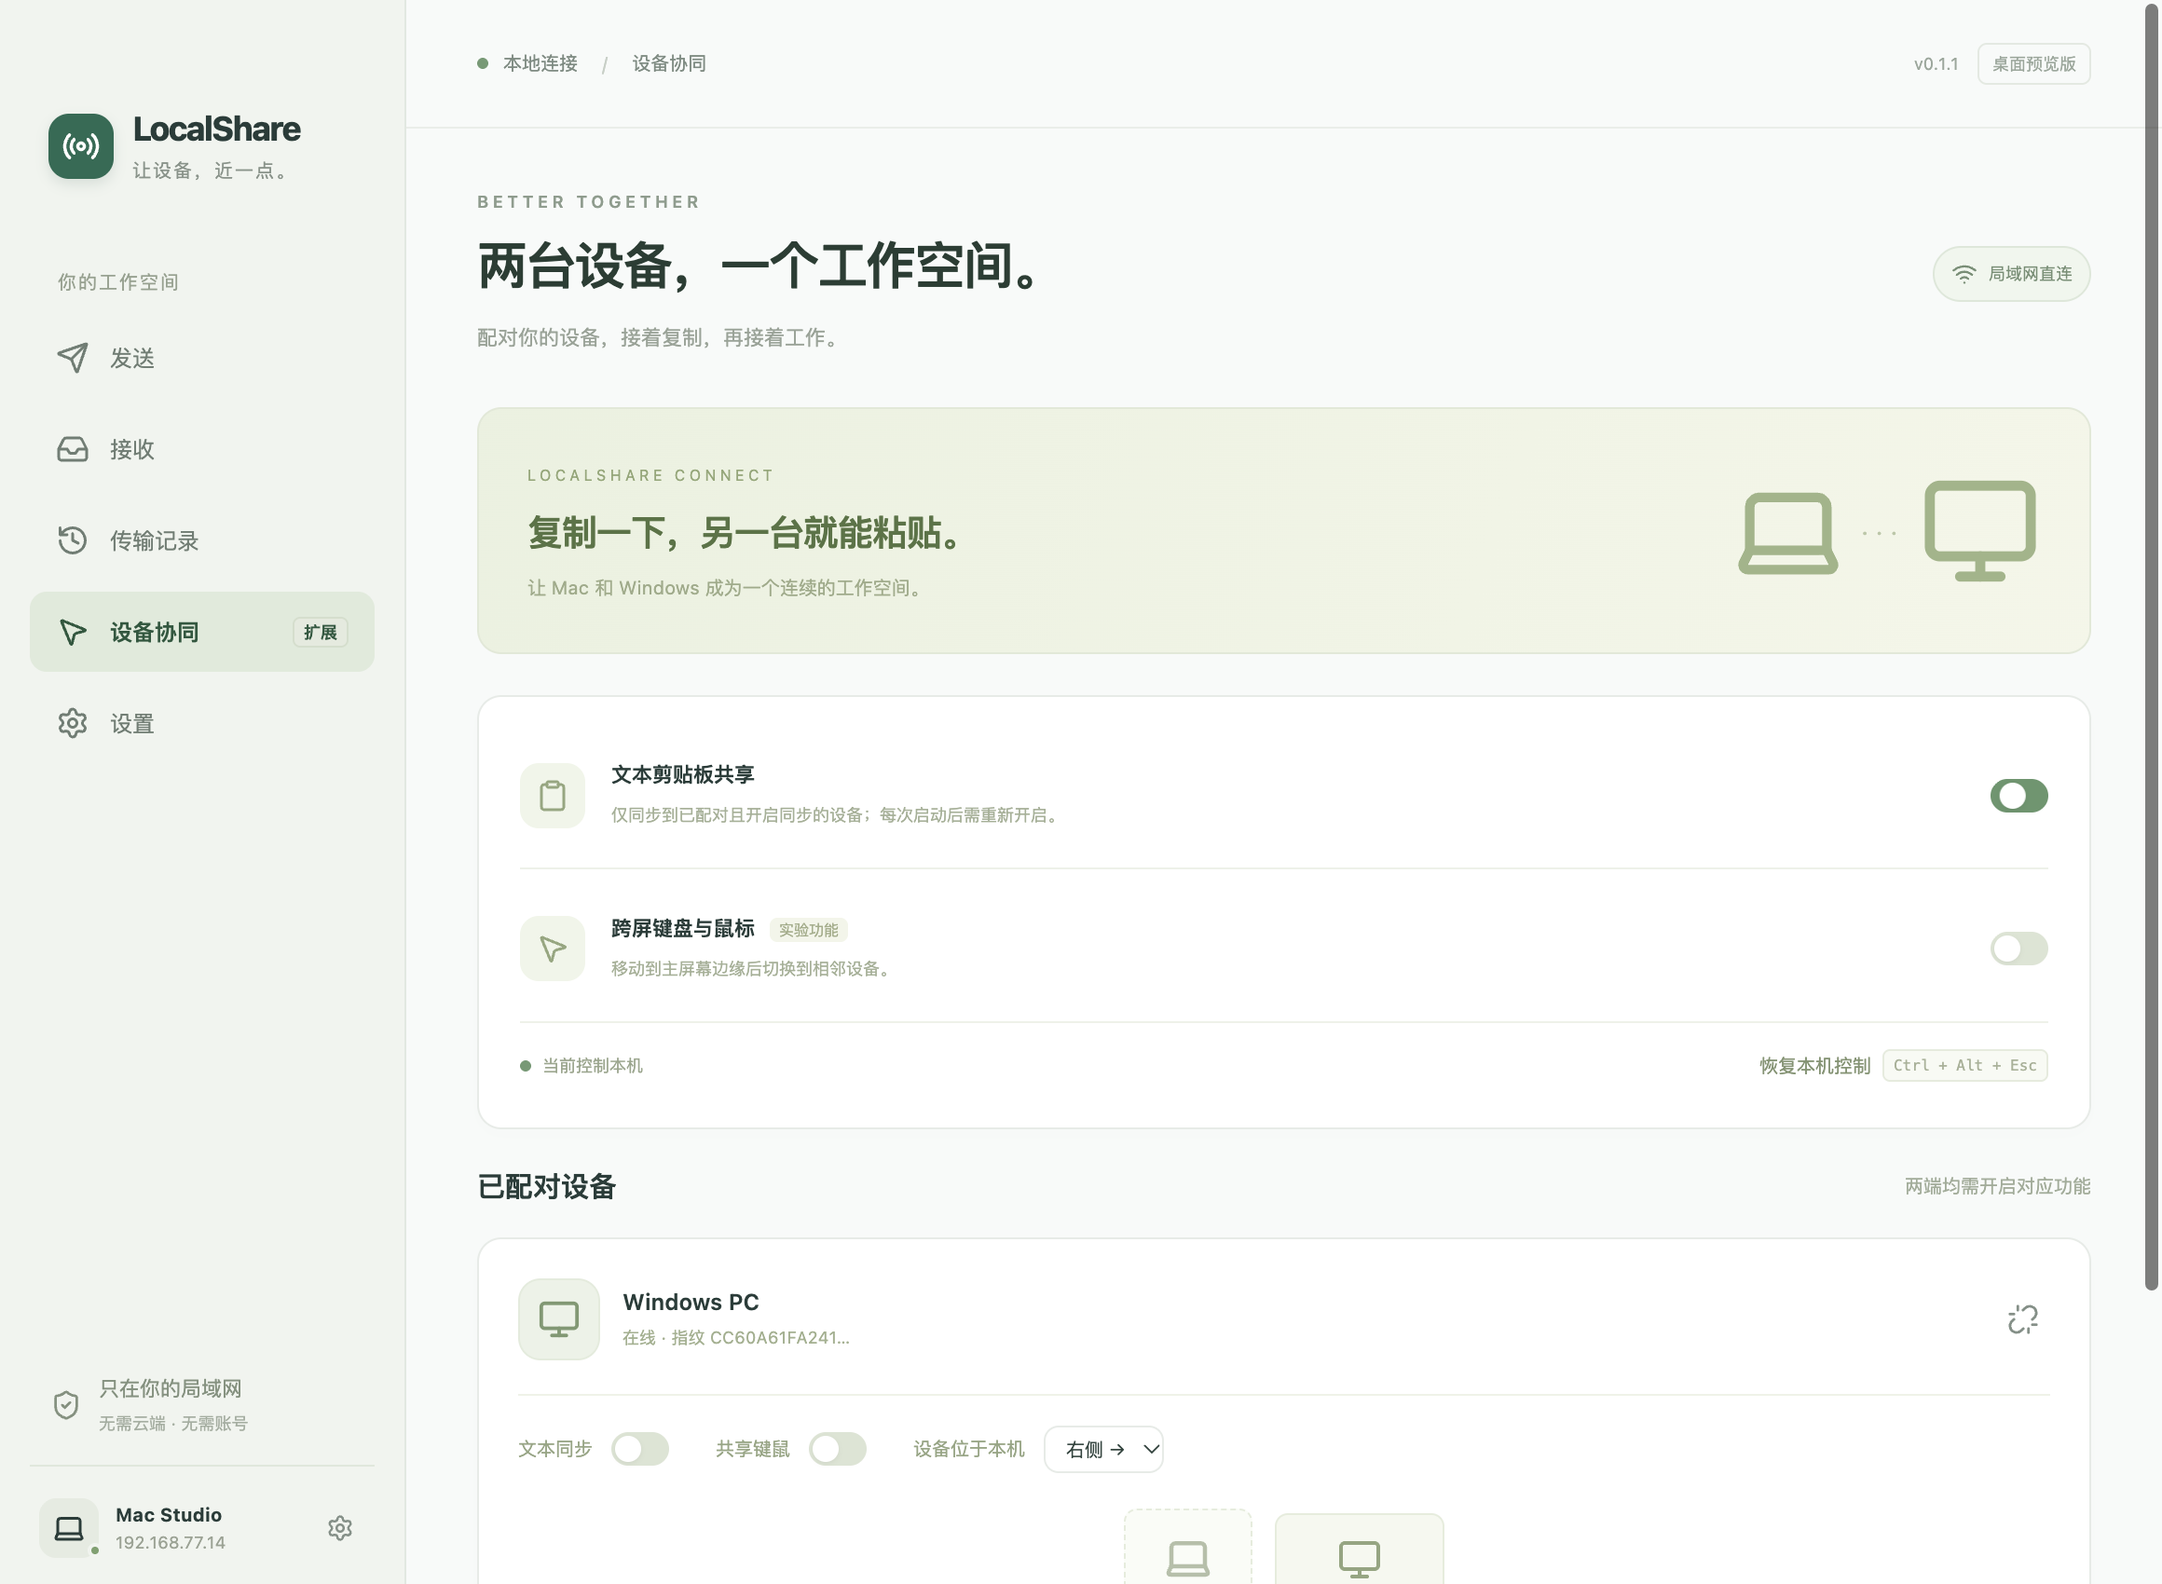
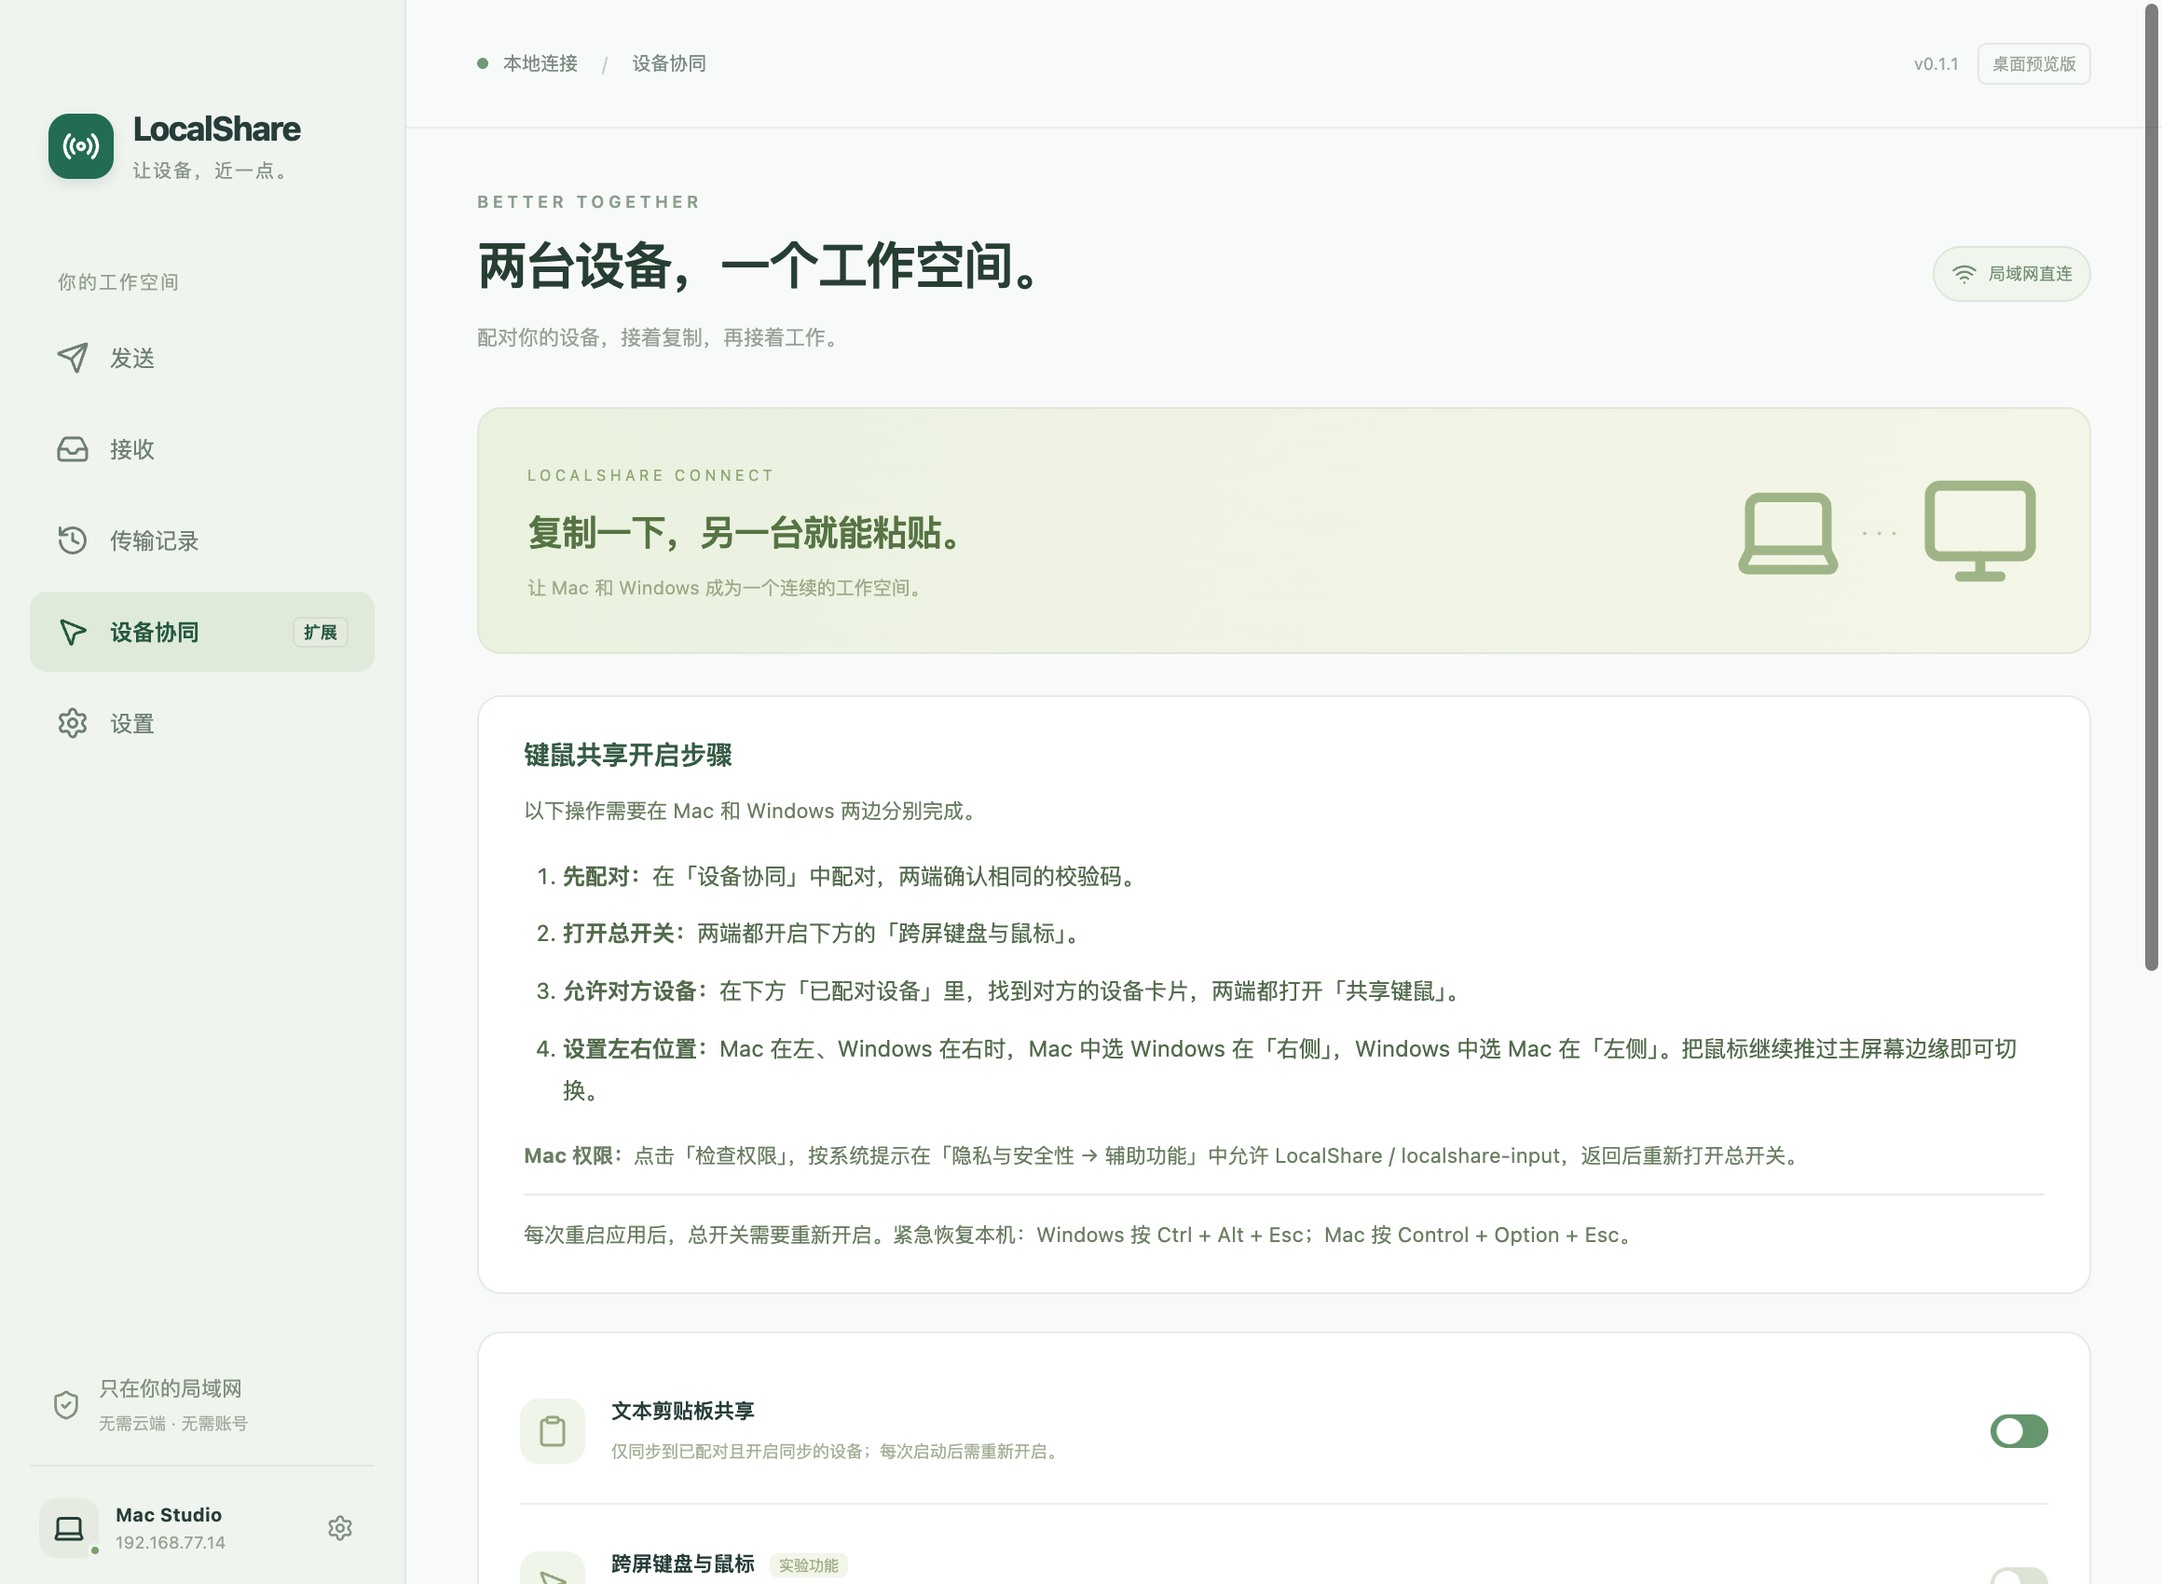
fix: explain both-device input sharing setup and actionable errors

diff --git a/tests/control.case.ts b/tests/control.case.ts
@@ -10,6 +10,57 @@ const waitFor = async (fn: () => boolean) => {
     await new Promise((r) => setTimeout(r, 20));
   }
 };
+test("remote control setup errors name the receiving device and the missing switch without raw JSON", async () => {
+  const a = await makePeer("Mac 测试"),
+    b = await makePeer("Windows 测试");
+  const ea = new Extensions(a.service),
+    eb = new Extensions(b.service);
+  const ca = new Control(ea),
+    cb = new Control(eb);
+  try {
+    await ea.start();
+    await eb.start();
+    const device = await a.service.register("127.0.0.1", b.service.info.port);
+    ea.on("pairing", (p) => ea.respondPair(p.id, true));
+    eb.on("pairing", (p) => eb.respondPair(p.id, true));
+    await ea.pair(device.fingerprint);
+    await ea.setSettings(false, true);
+    await ea.setPeer(device.fingerprint, { control: true });
+    await assert.rejects(
+      ca.start(device.fingerprint, "right", 0.5),
+      (error) => {
+        assert.ok(error instanceof Error);
+        assert.match(error.message, /Windows 测试/);
+        assert.match(error.message, /总开关/);
+        assert.equal(error.message.startsWith("{"), false);
+        return true;
+      },
+    );
+    assert.equal(ca.mode, "local");
+    await eb.setSettings(false, true);
+    await assert.rejects(
+      ca.start(device.fingerprint, "right", 0.5),
+      (error) => {
+        assert.ok(error instanceof Error);
+        assert.match(error.message, /Windows 测试/);
+        assert.match(error.message, /设备卡片/);
+        assert.match(error.message, /Mac 测试/);
+        return true;
+      },
+    );
+    assert.equal(ca.mode, "local");
+    await eb.setPeer(a.service.info.fingerprint, { control: true });
+    await ca.start(device.fingerprint, "right", 0.5);
+    assert.equal(ca.mode, "sending");
+  } finally {
+    await ca.dispose();
+    await cb.dispose();
+    await ea.stop();
+    await eb.stop();
+    await a.close();
+    await b.close();
+  }
+});
 test("control is opt-in, delivers ordered events and emergency stop releases both peers", async () => {
   const a = await makePeer("A"),
     b = await makePeer("B");

diff --git a/src/renderer/components/ControlSetupGuide.tsx b/src/renderer/components/ControlSetupGuide.tsx
@@ -1,0 +1,37 @@
+export function ControlSetupGuide() {
+  return (
+    <section
+      className="panel control-setup"
+      aria-labelledby="control-setup-title"
+    >
+      <h2 id="control-setup-title">键鼠共享开启步骤</h2>
+      <p>以下操作需要在 Mac 和 Windows 两边分别完成。</p>
+      <ol>
+        <li>
+          <strong>先配对：</strong>在「设备协同」中配对，两端确认相同的校验码。
+        </li>
+        <li>
+          <strong>打开总开关：</strong>两端都开启下方的「跨屏键盘与鼠标」。
+        </li>
+        <li>
+          <strong>允许对方设备：</strong>
+          在下方「已配对设备」里，找到对方的设备卡片，两端都打开「共享键鼠」。
+        </li>
+        <li>
+          <strong>设置左右位置：</strong>Mac 在左、Windows 在右时，Mac 中选
+          Windows 在「右侧」，Windows 中选 Mac
+          在「左侧」。把鼠标继续推过主屏幕边缘即可切换。
+        </li>
+      </ol>
+      <p>
+        <strong>Mac 提示权限不足时：</strong>
+        点击「检查权限」，按系统提示在「隐私与安全性 → 辅助功能」中允许
+        LocalShare / localshare-input，返回后重新打开总开关。
+      </p>
+      <p className="setup-reminder">
+        每次重启应用后，总开关需要重新开启。紧急恢复本机：Windows 按 Ctrl + Alt
+        + Esc；Mac 按 Control + Option + Esc。
+      </p>
+    </section>
+  );
+}

diff --git a/src/renderer/App.tsx b/src/renderer/App.tsx
@@ -1,5 +1,6 @@
 import { useEffect, useState, type ReactNode } from "react";
 import { version as appVersion } from "../../package.json";
+import { ControlSetupGuide } from "./components/ControlSetupGuide";
 import {
   ArrowUpRight,
   ArrowDownLeft,
@@ -782,6 +783,7 @@ export default function App() {
                   <Monitor size={65} />
                 </div>
               </div>
+              <ControlSetupGuide />
               <section className="panel settings-panel">
                 <div className="setting-row">
                   <div className="setting-icon">
@@ -829,7 +831,7 @@ export default function App() {
                     }
                   />
                 </div>
-                {!state.native.permission || state.native.error ? (
+                {!state.native.permission ? (
                   <div className="permission-note">
                     <ShieldCheck size={18} />
                     <div>
@@ -844,6 +846,12 @@ export default function App() {
                     >
                       检查权限
                     </button>
+                  </div>
+                ) : null}
+                {state.native.permission && state.native.error ? (
+                  <div className="info-banner" role="alert">
+                    <MousePointer2 size={18} />
+                    <div>{state.native.error}</div>
                   </div>
                 ) : null}
                 <div className="control-status">

diff --git a/src/core/control.ts b/src/core/control.ts
@@ -69,8 +69,13 @@ export class Control extends EventEmitter {
         reply(res, 200, { ok: true });
         return true;
       }
-      if (!extensions.canControl(peer.fingerprint))
-        throw new HttpError(403, "键鼠共享未开启");
+      if (!extensions.canControl(peer.fingerprint)) {
+        const receiver = extensions.service.info.alias;
+        const message = extensions.snapshot().controlEnabled
+          ? `「${receiver}」尚未允许「${peer.alias}」共享键鼠。请在「${receiver}」的「设备协同 → 已配对设备」中，打开「${peer.alias}」设备卡片里的「共享键鼠」开关。`
+          : `「${receiver}」的键鼠总开关未开启。请在「${receiver}」的「设备协同」中打开「跨屏键盘与鼠标」，并在「${peer.alias}」设备卡片里打开「共享键鼠」。`;
+        throw new HttpError(403, message);
+      }
       if (path === "start") {
         if (this.session) throw new HttpError(409, "已有活动控制会话");
         if (

diff --git a/src/main/native.ts b/src/main/native.ts
@@ -30,10 +30,16 @@ export class NativeInput extends EventEmitter {
     private extensions: Extensions,
   ) {
     super();
-    control.on("capture", () => this.send({ cmd: "capture" }));
-    control.on("receive", (position) =>
-      this.send({ cmd: "receive", ...position }),
-    );
+    control.on("capture", () => {
+      this.state.error = undefined;
+      this.emit("change");
+      this.send({ cmd: "capture" });
+    });
+    control.on("receive", (position) => {
+      this.state.error = undefined;
+      this.emit("change");
+      this.send({ cmd: "receive", ...position });
+    });
     control.on("input", (e) => this.send({ cmd: "event", ...e }));
     control.on("release", () => this.send({ cmd: "release" }));
     extensions.on("trustChanged", () => this.configure());

diff --git a/src/core/transport.ts b/src/core/transport.ts
@@ -134,11 +134,20 @@ export async function request(
   }
 }
 export function jsonReply<T>(reply: Reply): T {
-  if (reply.status < 200 || reply.status >= 300)
+  if (reply.status < 200 || reply.status >= 300) {
+    let message = reply.body.toString();
+    try {
+      const payload = JSON.parse(message);
+      if (typeof payload?.error === "string" && payload.error.trim())
+        message = payload.error;
+    } catch {
+      /* Legacy peers may return plain-text error messages. */
+    }
     throw new HttpError(
       reply.status,
-      reply.body.toString() || `HTTP ${reply.status}`,
+      message.slice(0, 2000) || `HTTP ${reply.status}`,
     );
+  }
   return JSON.parse(reply.body.toString()) as T;
 }
 export class HttpError extends Error {

diff --git a/src/renderer/styles.css b/src/renderer/styles.css
@@ -1227,6 +1227,33 @@ footer > span:last-child {
   gap: 6px;
   flex-wrap: wrap;
 }
+.control-setup {
+  padding: 21px 24px;
+  margin-bottom: 20px;
+}
+.control-setup h2 {
+  font-size: 14px;
+  color: #345b43;
+}
+.control-setup p {
+  color: #6b7f63;
+  font-size: 11px;
+  margin-top: 11px;
+}
+.control-setup ol {
+  padding-left: 21px;
+  margin: 14px 0;
+  color: #526b4c;
+  font-size: 12px;
+  line-height: 1.9;
+}
+.control-setup li + li {
+  margin-top: 8px;
+}
+.control-setup .setup-reminder {
+  border-top: 1px solid var(--border);
+  padding-top: 12px;
+}
 .control-status .text-button {
   margin-left: auto;
 }

diff --git a/scripts/smoke.ts b/scripts/smoke.ts
@@ -64,6 +64,7 @@ try {
   );
   for (const p of [a, b])
     await p.getByRole("button", { name: "设备协同", exact: false }).click();
+  await a.getByRole("region", { name: "键鼠共享开启步骤" }).waitFor();
   await a.getByRole("button", { name: "配对", exact: true }).click();
   await a.getByRole("button", { name: "校验码相同", exact: true }).waitFor();
   await b.getByRole("button", { name: "校验码相同", exact: true }).waitFor();

diff --git a/README.md b/README.md
@@ -52,6 +52,24 @@ bun run start
 
 **系统权限与限制：** macOS 在“设备协同 → 检查权限”中查看并为应用 / `localshare-input` 授予辅助功能权限。未授权时，文件和文本剪贴板仍可使用。Windows 普通权限进程不能控制管理员权限窗口、UAC 或安全桌面。第一版按常用 Windows VK 键码映射；不同键盘布局、IME、拖动与多屏、休眠唤醒需实机回归。本机编译检查通过不等于 Mac / Windows 跨机手感验证通过。
 
+### 键鼠共享怎么开启
+
+**两台电脑分别打开左侧「设备协同」，以下开关两端都要开启。** 以 Mac 在左、Windows 在右为例：
+
+| 检查项 | Mac 端 | Windows 端 |
+| --- | --- | --- |
+| 配对 | 与 Windows 配对并确认校验码 | 与 Mac 配对并确认相同校验码 |
+| 页面上方总开关 | 打开「跨屏键盘与鼠标」 | 打开「跨屏键盘与鼠标」 |
+| 下方「已配对设备」 | Windows 卡片中打开「共享键鼠」 | Mac 卡片中打开「共享键鼠」 |
+| 对方位于本机的哪一侧 | Windows 设为「右侧」 | Mac 设为「左侧」 |
+| 系统权限 | 点「检查权限」，允许辅助功能权限，再返回开启总开关 | 总开关开启后应保持打开；若自动关闭，查看输入模块错误提示 |
+
+配置后，继续将鼠标推过 Mac **主屏幕右边缘**即可进入 Windows，向左越过 Windows 的屏幕边缘返回。Windows 紧急退出为 Ctrl + Alt + Esc，Mac 为 Control + Option + Esc。
+
+**重启任一端的应用后，都要重新打开该端的总开关。** 设备卡片中的授权及左右位置会保留。
+
+如果报错 `{"error":"键鼠共享未开启"}`，说明接收控制请求的一端没有同时满足“总开关已开启”和“允许这台设备共享键鼠”。例如从 Mac 控制 Windows 时出现此错误，应检查 Windows 的总开关，以及 Windows 中 Mac 设备卡片的「共享键鼠」。这两个开关任意一个关闭都会拒绝请求。新的主分支已将报错细分为具体设备和具体开关；0.1.0 / 0.1.1 安装包仍显示旧提示，按本节步骤开启即可。
+
 ## 网络排障
 
 - 默认 TCP 与 UDP 端口为 **53317**，允许应用在专用局域网接收连接。Windows 将当前家庭网络设为“专用”。

diff --git a/docs/control-setup-fix.md b/docs/control-setup-fix.md
@@ -1,0 +1,13 @@
+# 键鼠共享开启引导与错误提示修复
+
+2026-11-04：用户遇到 `{"error":"键鼠共享未开启"}`，没有得到明确的双端配置说明。
+
+现有条件：双方必须配对、分别打开键鼠总开关、分别为对方打开设备卡片的共享键鼠开关；Mac 需系统辅助功能权限。总开关在每次应用启动后关闭。原错误由接收端产生，但网络层把 JSON 原文当作错误消息，且界面把远端错误也放进“检查权限”区域。
+
+本次方案：
+1. 为“本机配置完成，但对方总开关关闭”和“对方未授权对应设备”添加真实双实例 HTTPS 回归测试。
+2. 接收端错误说明包含设备名称和具体的开关路径，网络层提取 JSON 中的人类可读错误，兼容纯文本错误响应。
+3. 设备协同页常驻四步说明、Mac 权限位置、左右布局示例和重启后重新开启的说明；把远端错误提示与权限检查分开。
+4. 构建与测试后推送 main。此轮不自动开启任何设备共享权限；已安装的 0.1.0 / 0.1.1 按聊天和 README 中的步骤即可配置。
+
+验证：修复前，双实例测试复现了原始 JSON 报错且无法指出接收端设备。修复后，同一测试验证接收方总开关和设备卡片开关的不同提示，全部开启后控制会话成功建立；14 项功能测试通过，发行包签名用例在未指定产物路径的本轮测试中跳过。严格类型检查、构建及双实例 Electron 界面流程通过，设备协同页可见开启引导。此次只更新 main，未替换已发布安装包。
